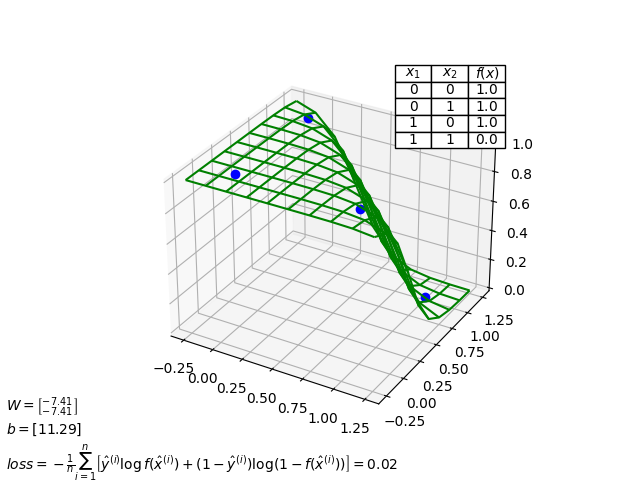
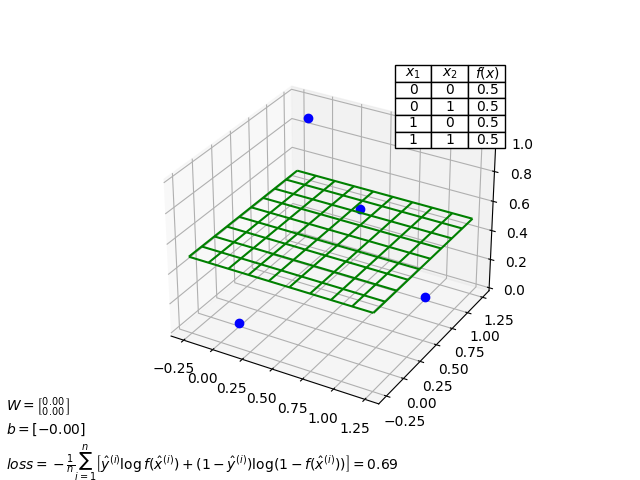
XOR complete

diff --git a/oving2/XOR.py b/oving2/XOR.py
@@ -1,0 +1,118 @@
+import matplotlib.pyplot as plt
+import numpy as np
+import torch
+
+# Variables we tweak to find the lowest loss
+learning_rate = 5
+epochs = 5000
+
+# Observed/training input and output
+x_train = torch.tensor([[0., 0.], [0., 1.], [1., 0.], [1., 1.]])
+y_train = torch.tensor([[0.], [1.], [1.], [0.]])
+
+
+class SigmoidModel:
+    def __init__(self):
+        self.W1 = torch.rand((2, 2), dtype=torch.float, requires_grad=True)
+        self.b1 = torch.rand((1, 2), dtype=torch.float, requires_grad=True)
+        self.W2 = torch.rand((2, 1), dtype=torch.float, requires_grad=True)
+        self.b2 = torch.rand((1, 1), dtype=torch.float, requires_grad=True)
+
+    # Predetermined values - Does not Converge
+    # self.W1 = torch.tensor([[0., 0.], [0., 0.]], dtype=torch.float, requires_grad=True)
+    # self.b1 = torch.tensor([[0., 0.]], dtype=torch.float, requires_grad=True)
+    # self.W2 = torch.tensor([[0.], [0.]], dtype=torch.float, requires_grad=True)
+    # self.b2 = torch.tensor([[0.]], dtype=torch.float, requires_grad=True)
+
+    # Predetermined values - Converges
+    # self.W1 = torch.tensor([[10.0, -10.0], [10.0, -10.0]], dtype=torch.float, requires_grad=True)
+    # self.b1 = torch.tensor([[-5.0, 15.0]], dtype=torch.float, requires_grad=True)
+    # self.W2 = torch.tensor([[10.0], [10.0]], dtype=torch.float, requires_grad=True)
+    # self.b2 = torch.tensor([[-15.0]], dtype=torch.float, requires_grad=True)
+
+    # Logits
+    def logits(self, x, W, b):
+        return x @ W + b
+
+    # First layer function
+    def f1(self, x):
+        return torch.sigmoid(self.logits(x, self.W1, self.b1))
+
+    # Second layer function
+    def f2(self, h):
+        return torch.sigmoid(self.logits(h, self.W2, self.b2))
+
+    # Predictor
+    def f(self, x):
+        return self.f2(self.f1(x))
+
+    # Cross Entropy Loss
+    def loss(self, x, y):
+        return torch.nn.functional.binary_cross_entropy_with_logits(self.logits(self.f1(x), self.W2, self.b2), y)
+
+
+model = SigmoidModel()
+
+optimizer = torch.optim.SGD([model.W1, model.b1, model.W2, model.b2], learning_rate)
+for epoch in range(epochs):
+    model.loss(x_train, y_train).backward()
+    optimizer.step()
+    optimizer.zero_grad()
+
+# Print model variables and loss
+print("W = %s, b = %s, loss = %s" % (model.W1, model.b1, model.loss(x_train, y_train)))
+print("W = %s, b = %s, loss = %s" % (model.W2, model.b2, model.loss(x_train, y_train)))
+
+# Visualize result
+fig = plt.figure("XOR Operator")
+plot1 = fig.add_subplot(111, projection='3d')
+
+plot1_f = plot1.plot_wireframe(np.array([[]]), np.array([[]]), np.array([[]]), color="green",
+                               label="$y=f(x)=\\sigma(xW+b)$")
+plot1.plot(x_train[:, 0].squeeze().detach(),
+           x_train[:, 1].squeeze().detach(),
+           y_train[:, 0].squeeze().detach(),
+           'o',
+           label="$(\\hat x_1^{(i)}, \\hat x_2^{(i)},\\hat y^{(i)})$",
+           color="blue")
+
+plot1_info = fig.text(0.01, 0.02, "$W1=\\genfrac{[}{]}{0}{}{%.2f}{%.2f}$\n"
+                                  "$b1=[%.2f]$\n"
+                                  "$W2=\\genfrac{[}{]}{0}{}{%.2f}{%.2f}$\n"
+                                  "$b2=[%.2f]$\n"
+                                  "$loss = %.2f$"
+                      % (model.W1[0, 0], model.W1[1, 0], model.b1[0, 0], model.W2[0, 0], model.W2[1, 0], model.b2[0, 0],
+                         model.loss(x_train, y_train).item()))
+
+plot1.set_xlabel("$x_1$")
+plot1.set_ylabel("$x_2$")
+plot1.set_zlabel("$y$")
+plot1.legend(loc="upper left")
+plot1.set_xticks([0, 1])
+plot1.set_yticks([0, 1])
+plot1.set_zticks([0, 1])
+plot1.set_xlim(-0.25, 1.25)
+plot1.set_ylim(-0.25, 1.25)
+plot1.set_zlim(-0.25, 1.25)
+
+table = plt.table(cellText=[[0, 0, 0], [0, 1, 0], [1, 0, 0], [1, 1, 0]],
+                  colWidths=[0.1] * 3,
+                  colLabels=["$x_1$", "$x_2$", "$f(x)$"],
+                  cellLoc="center",
+                  loc="lower right")
+table._cells[(1, 2)]._text.set_text("${%.1f}$" % model.f(torch.tensor([[0., 0.]], dtype=torch.float)).detach())
+table._cells[(2, 2)]._text.set_text("${%.1f}$" % model.f(torch.tensor([[0., 1.]], dtype=torch.float)).detach())
+table._cells[(3, 2)]._text.set_text("${%.1f}$" % model.f(torch.tensor([[1., 0.]], dtype=torch.float)).detach())
+table._cells[(4, 2)]._text.set_text("${%.1f}$" % model.f(torch.tensor([[1., 1.]], dtype=torch.float)).detach())
+
+plot1_f.remove()
+x1_grid, x2_grid = torch.tensor(np.meshgrid(np.linspace(-0.25, 1.25, 10),
+                                            np.linspace(-0.25, 1.25, 10)), dtype=torch.float)
+y_grid = torch.tensor(np.empty([10, 10]), dtype=torch.float)
+for i in range(0, x1_grid.shape[0]):
+    for j in range(0, x1_grid.shape[1]):
+        y_grid[i, j] = model.f(torch.tensor([[x1_grid[i, j], x2_grid[i, j]]])).detach()
+plot1_f = plot1.plot_wireframe(x1_grid, x2_grid, y_grid, color="green")
+
+plt.savefig('XOR')
+plt.show()
